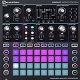
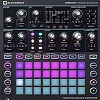
finished linking projects

diff --git a/index.html b/index.html
@@ -41,10 +41,10 @@
           <p>I am a Sacramento area native that spent a little time out of state.I started my IT journey at Santa Fe
             Community College in the Information Technology program. After moving back to California, I enrolled at
             MTI
-            College where I recived my A.S. in Network Administration.
+            College where I recived my A.S. in Network Administration and my CompTIA A+ certification.
             After ten years of doing side jobs fixing computers and setting up networks for freinds and families, I
             felt it was time to do more. That is what has led me to my current Web Developer path. Check out a few of my
-            project and assignments to see what I am about.
+            projects and assignments to see what I am about.
           </p>
         </div>
       </div>
@@ -55,22 +55,61 @@
         <h1>Portfolio</h1>
         <hr>
         <div class="row">
-          <div class="col-sm-6">
+          <div class="col-sm-6 pl-5">
+            <div class="thumb">
+              <a href="https://tranquil-coast-15604.herokuapp.com/login" target="_blank"><img
+                  class="img-fluid thumbnail rounded" src="/assets/images/teacherspet.jpg"
+                  alt="apple/books on desk"></a>
+              <div class="overlay" style="width: 100%;">teachersPET</div>
+              <div><a href="https://github.com/TimGangl/teachersPET" target="_blank">GitHub Repo</a></div>
+            </div>
+          </div>
+          <div class="col-sm-6 pl-5">
             <div class="thumb">
               <a href="https://abbbbbbbbbbbhi.github.io/project1/index.html" target="_blank"><img
-                  class=" img-fluid thumbnail rounded" src="assets/images/sequencer4.jpg" alt="drum sequencer"></a>
+                  class="img-fluid thumbnail rounded" src="assets/images/sequencer4.jpg" alt="drum sequencer"></a>
               <div class="overlay" style="width: 100%;">Drum Pad/ Sequencer</div>
-              <div>Github Repo: <a href="https://github.com/Abbbbbbbbbbbhi/project1" target="_blank">Click
-                  Here</a>
+              <div><a href="https://github.com/Abbbbbbbbbbbhi/project1" target="_blank">GitHub Repo</a>
               </div>
             </div>
           </div>
-          <div class="col-sm-6">
+
+        </div>
+        <br>
+        <div class="row">
+          <div class="col-sm-6 pl-5">
+            <div class="thumb">
+              <a href="Google.com" target="_blank"><img class="img-fluid thumbnail rounded"
+                  src="/assets/images/newspaper.jfif" alt="newspapers"></a>
+              <div class="overlay" style="width: 100%">News Scraper</div>
+              <div><a href="https://github.com/TimGangl/NewsScraper" target="_blank">GitHub Repo</a></div>
+            </div>
+          </div>
+          <div class="col-sm-6 pl-5">
             <div class=" thumb">
               <a href="https://timgangl.github.io/Giftastic/" target="_blank"><img class="img-fluid thumbnail rounded"
-                  src="assets/images/musicnotes1.jpg" alt="Picture of music notes"></a>
+                  src="/assets/images/musicnotes1.jpg" alt="Picture of music notes"></a>
               <div class="overlay" style="width: 100%;">Giftastic</div>
-              <div>Github Repo: <a href="https://github.com/TimGangl/Giftastic" target="_blank">Click Here</a></div>
+              <div><a href="https://github.com/TimGangl/Giftastic" target="_blank">GitHub Repo</a></div>
+            </div>
+          </div>
+        </div>
+        <br>
+        <div class="row">
+          <div class="col-sm-6 pl-5">
+            <div class=" thumb">
+              <a href="https://glacial-bayou-43912.herokuapp.com/" target="_blank"><img
+                  class="img-fluid thumbnail rounded" src="/assets/images/burger.jfif" alt="Picture of music notes"></a>
+              <div class="overlay" style="width: 100%;">Eat Da Burger</div>
+              <div><a href="https://github.com/TimGangl/Eat-Da-Burger" target="_blank">GitHub Repo</a></div>
+            </div>
+          </div>
+          <div class="col-sm-6 pl-5">
+            <div class="thumb">
+              <a href="https://glacial-spire-76567.herokuapp.com/" target="_blank"><img
+                  class="img-fluid thumbnail rounded" src="/assets/images/friend.jfif" alt="newspapers"></a>
+              <div class="overlay" style="width: 100%">Friend Finder</div>
+              <div><a href="https://github.com/TimGangl/Friend-Finder" target="_blank">GitHub Repo</a></div>
             </div>
           </div>
         </div>

diff --git a/assets/css/style.css b/assets/css/style.css
@@ -9,7 +9,10 @@ html, body {
   height: 100%;
   overflow: hidden;
   background:#009688;
-  background-image: url("/assets/images/keyboard-7.jpg")
+  background-image: url("/assets/images/keyboard-7.jpg");
+  background-position: center;
+  background-repeat: no-repeat;
+  background-size: cover;
 }
 .wrapper {
   width: 100%;
@@ -27,8 +30,8 @@ html, body {
   height: 100%;
   background-color: #fff;
   width: 33%;
-  max-width: 600px;
-  max-height: 800px;
+  max-width: 700px;
+  max-height: 900px;
   border-radius: 5%;
 }
 .left, .right {
@@ -157,7 +160,7 @@ p {
 .overlay{
   position: absolute;
   width:40px;
-  z-index: 1;
+  z-index: 0;
   background: #009688;
   color:white;
   text-align: center;
@@ -168,7 +171,7 @@ p {
 .thumb{
   position: relative;
   display: inline;
-  padding-bottom: -20px;
+  padding-bottom: -16px;
   
 
 }
